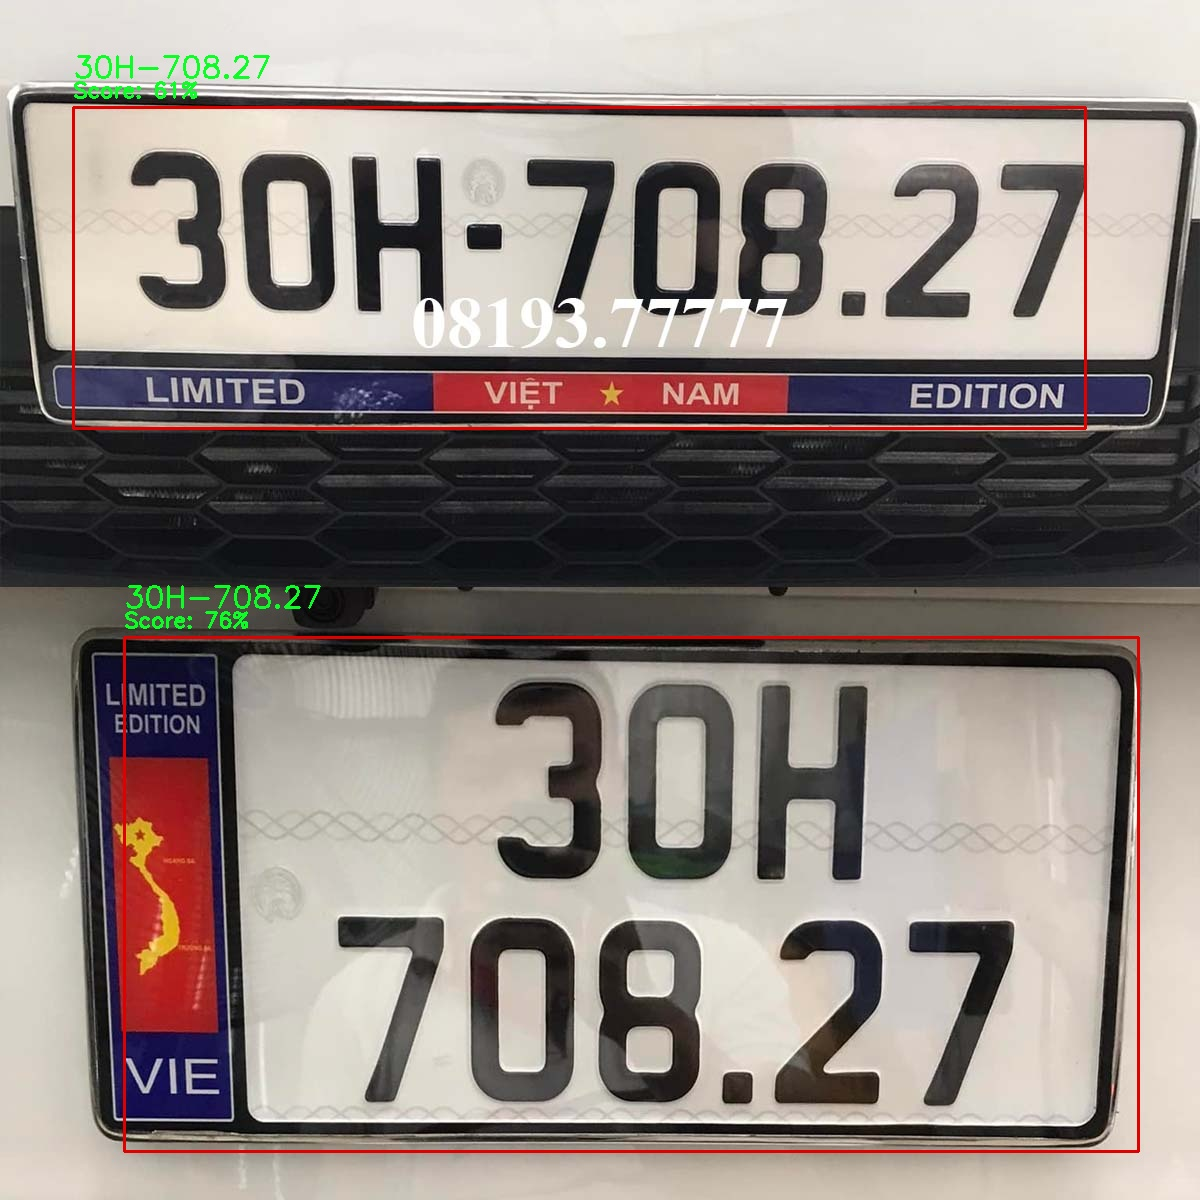
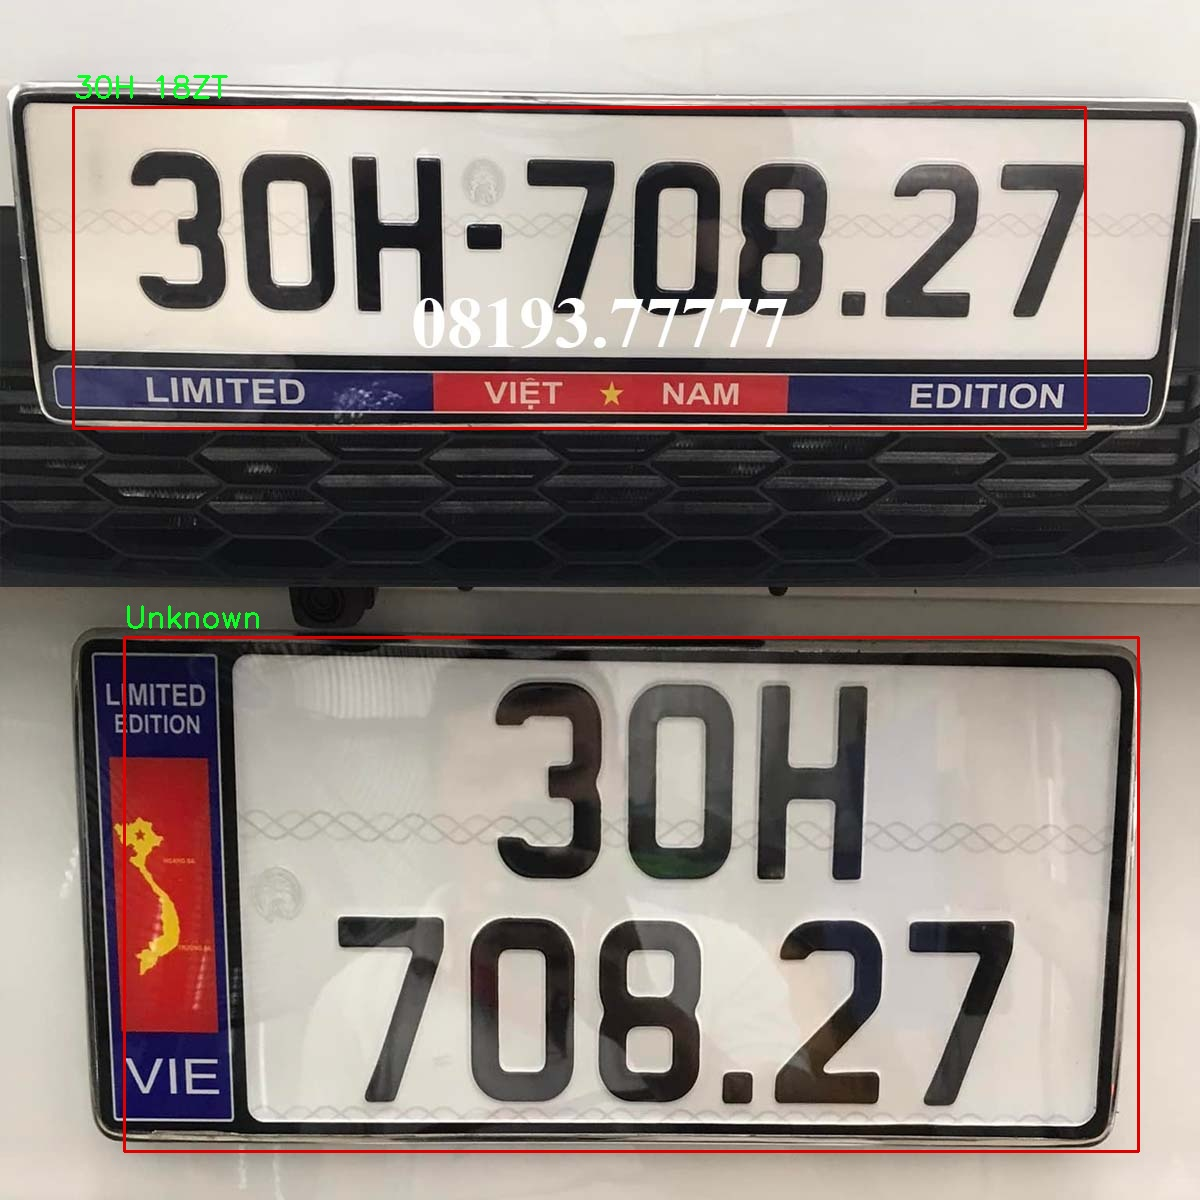
processing image

Changed region(s): [[0.0617, 0.0308, 0.2158, 0.0925], [0.0925, 0.4625, 0.2467, 0.5242]]

diff --git a/main.py b/main.py
@@ -1,51 +1,14 @@
 from ultralytics import YOLO
 import cv2
-import easyocr
 import os
-
-license_plate_chars = [
-    '0', '1', '2', '3', '4', '5', '6', '7', '8', '9',
-    'A', 'B', 'C', 'D', 'E', 'F', 'G', 'H', 'K', 'L', 
-    'M', 'N', 'P', 'R', 'S', 'T', 'U', 'V', 'X', 'Y', 'Z',
-    '-', '.', ' '
-]
-
-def contains_digit(s):
-    return any(char.isdigit() for char in s)
-
-def format_license_plate(license_plate_text):
-    return ''.join(char for char in license_plate_text if char in license_plate_chars)
-
-def read_license_plate(license_plate_crop):
-
-    detections =  reader.readtext(license_plate_crop)
-    if len(detections) == 0:
-        return "Unknown", 0
-    
-    final_text = ""
-    total_score = 0
-    count = 0
-    for detection in detections:
-        bbox, text, score = detection
-        if contains_digit(str(text)) and float(score) > 0.5 and count < 2:
-            final_text += text.upper() + " "
-            total_score += float(score)
-            count += 1
-    if final_text == "":
-        return format_license_plate(detections[0][1]), detections[0][2]
-    
-    return format_license_plate(final_text[:-1]), total_score / max(count, 1)
-    
-
-
-# Initialize the OCR reader
-reader = easyocr.Reader(['en'], gpu=False)
+from read_plate import read_license_plate
+from image_processing import process_image
 
 # load models
 license_plate_detector = YOLO('./train/weights/best.pt')
 
 # load file
-file_name = "plate5.jpg"
+file_name = "plate8.jpg"
 
 if file_name.lower().endswith((".jpg", ".jpeg", ".png")):
     img = cv2.imread(os.path.join("input", file_name))
@@ -53,51 +16,15 @@ if file_name.lower().endswith((".jpg", ".jpeg", ".png")):
     for license_plate in license_plates.boxes.data.tolist():
         x1, y1, x2, y2, score, class_id = license_plate
         license_plate_crop = img[int(y1):int(y2), int(x1):int(x2), :]
-        license_plate_crop_gray = cv2.cvtColor(license_plate_crop, cv2.COLOR_BGR2GRAY)
-        _, license_plate_crop_thresh = cv2.threshold(license_plate_crop_gray, 128, 255, cv2.THRESH_BINARY_INV)
-        license_plate_text, license_plate_text_score = read_license_plate(license_plate_crop_thresh)
-        final_score = int(license_plate_text_score / 2 * 100)
-        cv2.imshow("License Plate", license_plate_crop_gray)
-        cv2.imshow("License Plate Thresh", license_plate_crop_thresh)
+
+        processed_license_plate = process_image(license_plate_crop)
+        cv2.imshow("License Plate", processed_license_plate)
+        cv2.waitKey(0)
+
+        license_plate_text = read_license_plate(processed_license_plate)
         cv2.rectangle(img, (int(x1), int(y1)), (int(x2), int(y2)), color = (0,0,225), thickness = 2)
-        cv2.putText(img, license_plate_text, (int(x1), int(y1-35)), cv2.FONT_HERSHEY_SIMPLEX, 1, (36,255,12), 2)
-        cv2.putText(img, "Score: " + str(final_score) + "%", (int(x1), int(y1-10)), cv2.FONT_HERSHEY_SIMPLEX, 0.7, (36,255,12), 2)
+        cv2.putText(img, license_plate_text, (int(x1), int(y1-10)), cv2.FONT_HERSHEY_SIMPLEX, 1, (36,255,12), 2)
     
+    cv2.imshow("License Plate Detection", img)
     cv2.waitKey(0)
     cv2.imwrite(os.path.join("output", file_name), img)
-elif file_name.lower().endswith((".mp4", ".avi", ".mkv", ".gif")):
-    cap = cv2.VideoCapture(os.path.join("input",file_name))
-    fourcc = cv2.VideoWriter_fourcc(*'mp4v')
-    fps = cap.get(cv2.CAP_PROP_FPS)
-    width = int(cap.get(3))
-    height = int(cap.get(4))
-    out = cv2.VideoWriter(os.path.join("output",file_name), fourcc, fps, (width, height))
-    
-    frame_nmr = -1
-    ret = True
-    while ret:
-        frame_nmr += 1
-        ret, frame = cap.read()
-        # detect license plates
-        if ret:
-            license_plates = license_plate_detector(frame)[0]
-            detections = []
-            for license_plate in license_plates.boxes.data.tolist():
-                x1, y1, x2, y2, score, class_id = license_plate
-                detections.append((x1, y1, x2, y2, score, class_id))
-                
-                license_plate_crop = frame[int(y1):int(y2), int(x1):int(x2), :]
-
-                license_plate_crop_gray = cv2.cvtColor(license_plate_crop, cv2.COLOR_BGR2GRAY)
-                _, license_plate_crop_thresh = cv2.threshold(license_plate_crop_gray, 64, 255, cv2.THRESH_BINARY_INV)
-
-                license_plate_text, license_plate_text_score = read_license_plate(license_plate_crop_thresh)
-                final_score = int((license_plate_text_score + score) / 2 * 100)
-
-                cv2.rectangle(frame, (int(x1), int(y1)), (int(x2), int(y2)), color = (0,0,225), thickness = 2)
-                cv2.putText(frame, license_plate_text, (int(x1), int(y1-35)), cv2.FONT_HERSHEY_SIMPLEX, 1, (36,255,12), 2)
-                cv2.putText(frame, "Score: " + str(final_score) + "%", (int(x1), int(y1-10)), cv2.FONT_HERSHEY_SIMPLEX, 0.7, (36,255,12), 2)
-            out.write(frame)
-    out.release()
-    cap.release()
-

diff --git a/read_plate.py b/read_plate.py
@@ -1,0 +1,29 @@
+import easyocr
+
+# Initialize the OCR reader
+reader = easyocr.Reader(['en'], gpu=False)
+
+license_plate_chars = [
+    '0', '1', '2', '3', '4', '5', '6', '7', '8', '9',
+    'A', 'B', 'C', 'D', 'E', 'F', 'G', 'H', 'K', 'L', 
+    'M', 'N', 'P', 'R', 'S', 'T', 'U', 'V', 'X', 'Y', 'Z',
+    ' ', '-'
+]
+
+def format_license_plate(license_plate_text):
+    s = ''.join(char for char in license_plate_text if char in license_plate_chars)
+    print(s)
+    if len(s) < 7 or len(s) > 10 or not s[0].isdigit() or not s[1].isdigit():
+        return "Unknown"
+    return s
+
+def read_license_plate(license_plate_crop):
+
+    detections =  reader.readtext(license_plate_crop)
+    if len(detections) == 0:
+        return "Unknown"
+    elif len(detections) == 1:
+        return format_license_plate(detections[0][1].upper())
+    else:
+        return format_license_plate((detections[0][1] + " " +detections[1][1]).upper())
+    

diff --git a/image_processing.py b/image_processing.py
@@ -1,0 +1,19 @@
+import cv2
+def process_image(license_plate_crop):
+    scale_factor = 1.5
+    license_plate_crop = cv2.resize(license_plate_crop, None, fx=scale_factor, fy=scale_factor, interpolation=cv2.INTER_CUBIC)
+    
+    license_plate_crop_gray = cv2.cvtColor(license_plate_crop, cv2.COLOR_BGR2GRAY)
+
+    blurred = cv2.GaussianBlur(license_plate_crop_gray, (5, 5), 0)
+    license_plate_unsharp = cv2.addWeighted(license_plate_crop_gray, 1.5, blurred, -0.5, 0)
+
+    license_plate_thresh = cv2.adaptiveThreshold(license_plate_unsharp, 255, cv2.ADAPTIVE_THRESH_MEAN_C, cv2.THRESH_BINARY_INV, 15, 10)
+
+    clahe = cv2.createCLAHE(clipLimit=3.0, tileGridSize=(8, 8))
+    license_plate_clahe = clahe.apply(license_plate_thresh)
+
+    kernel = cv2.getStructuringElement(cv2.MORPH_RECT, (2, 2))
+    license_plate_cleaned = cv2.morphologyEx(license_plate_clahe, cv2.MORPH_CLOSE, kernel)
+
+    return license_plate_cleaned 
